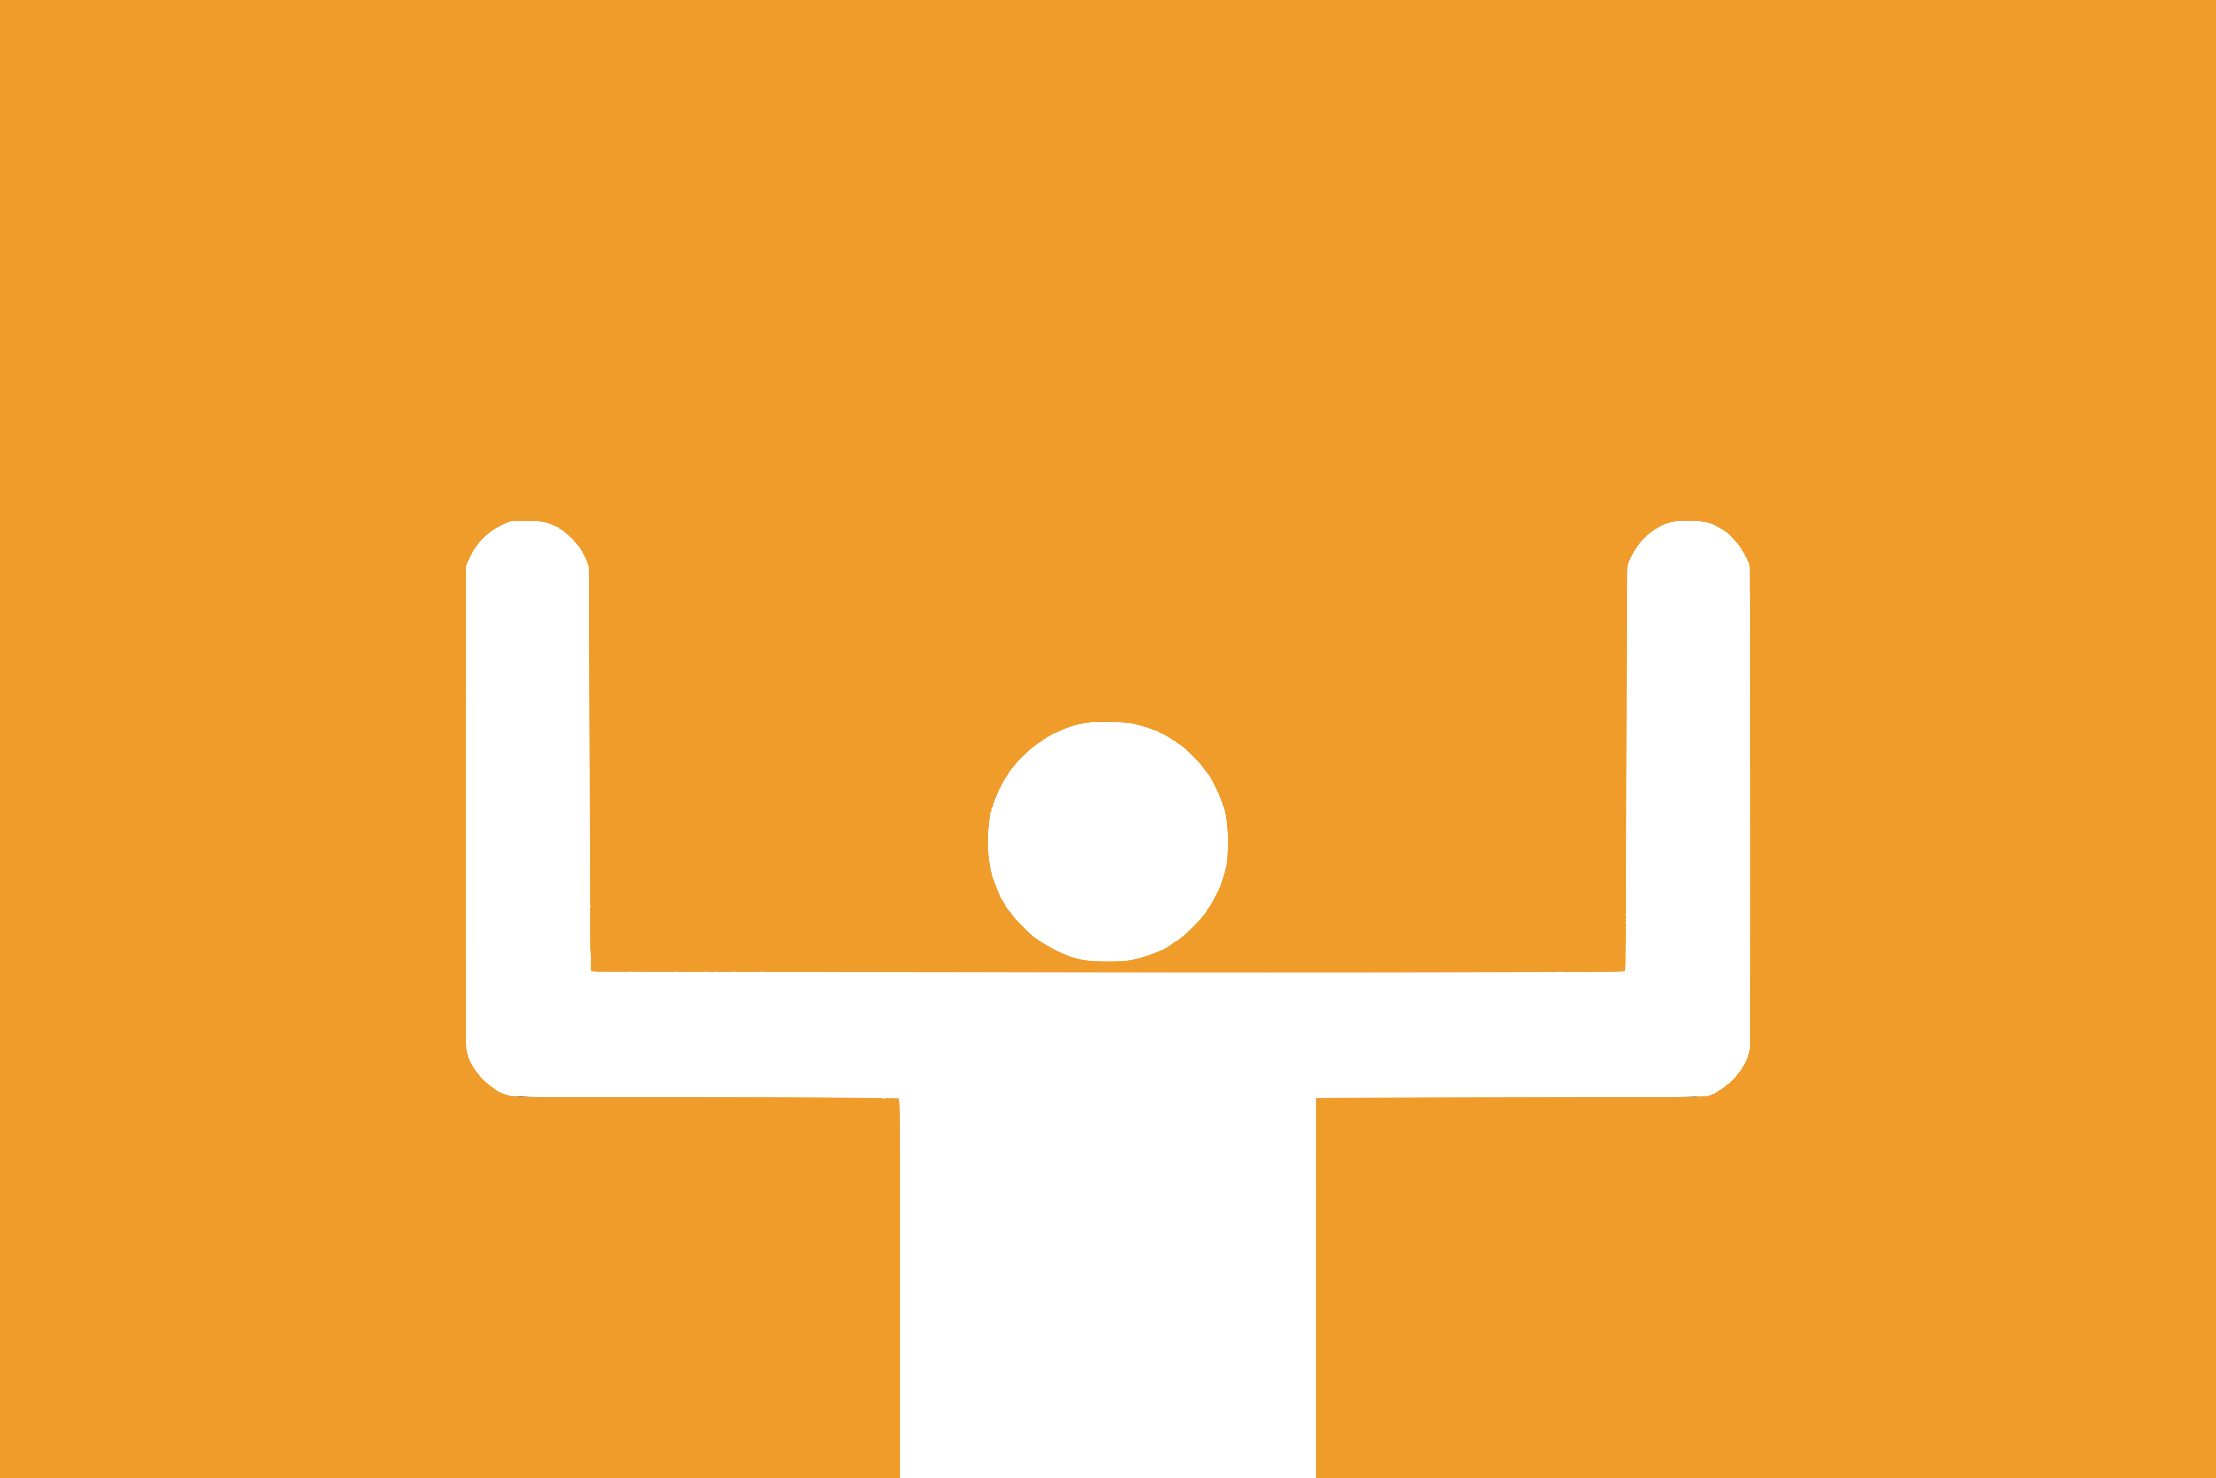
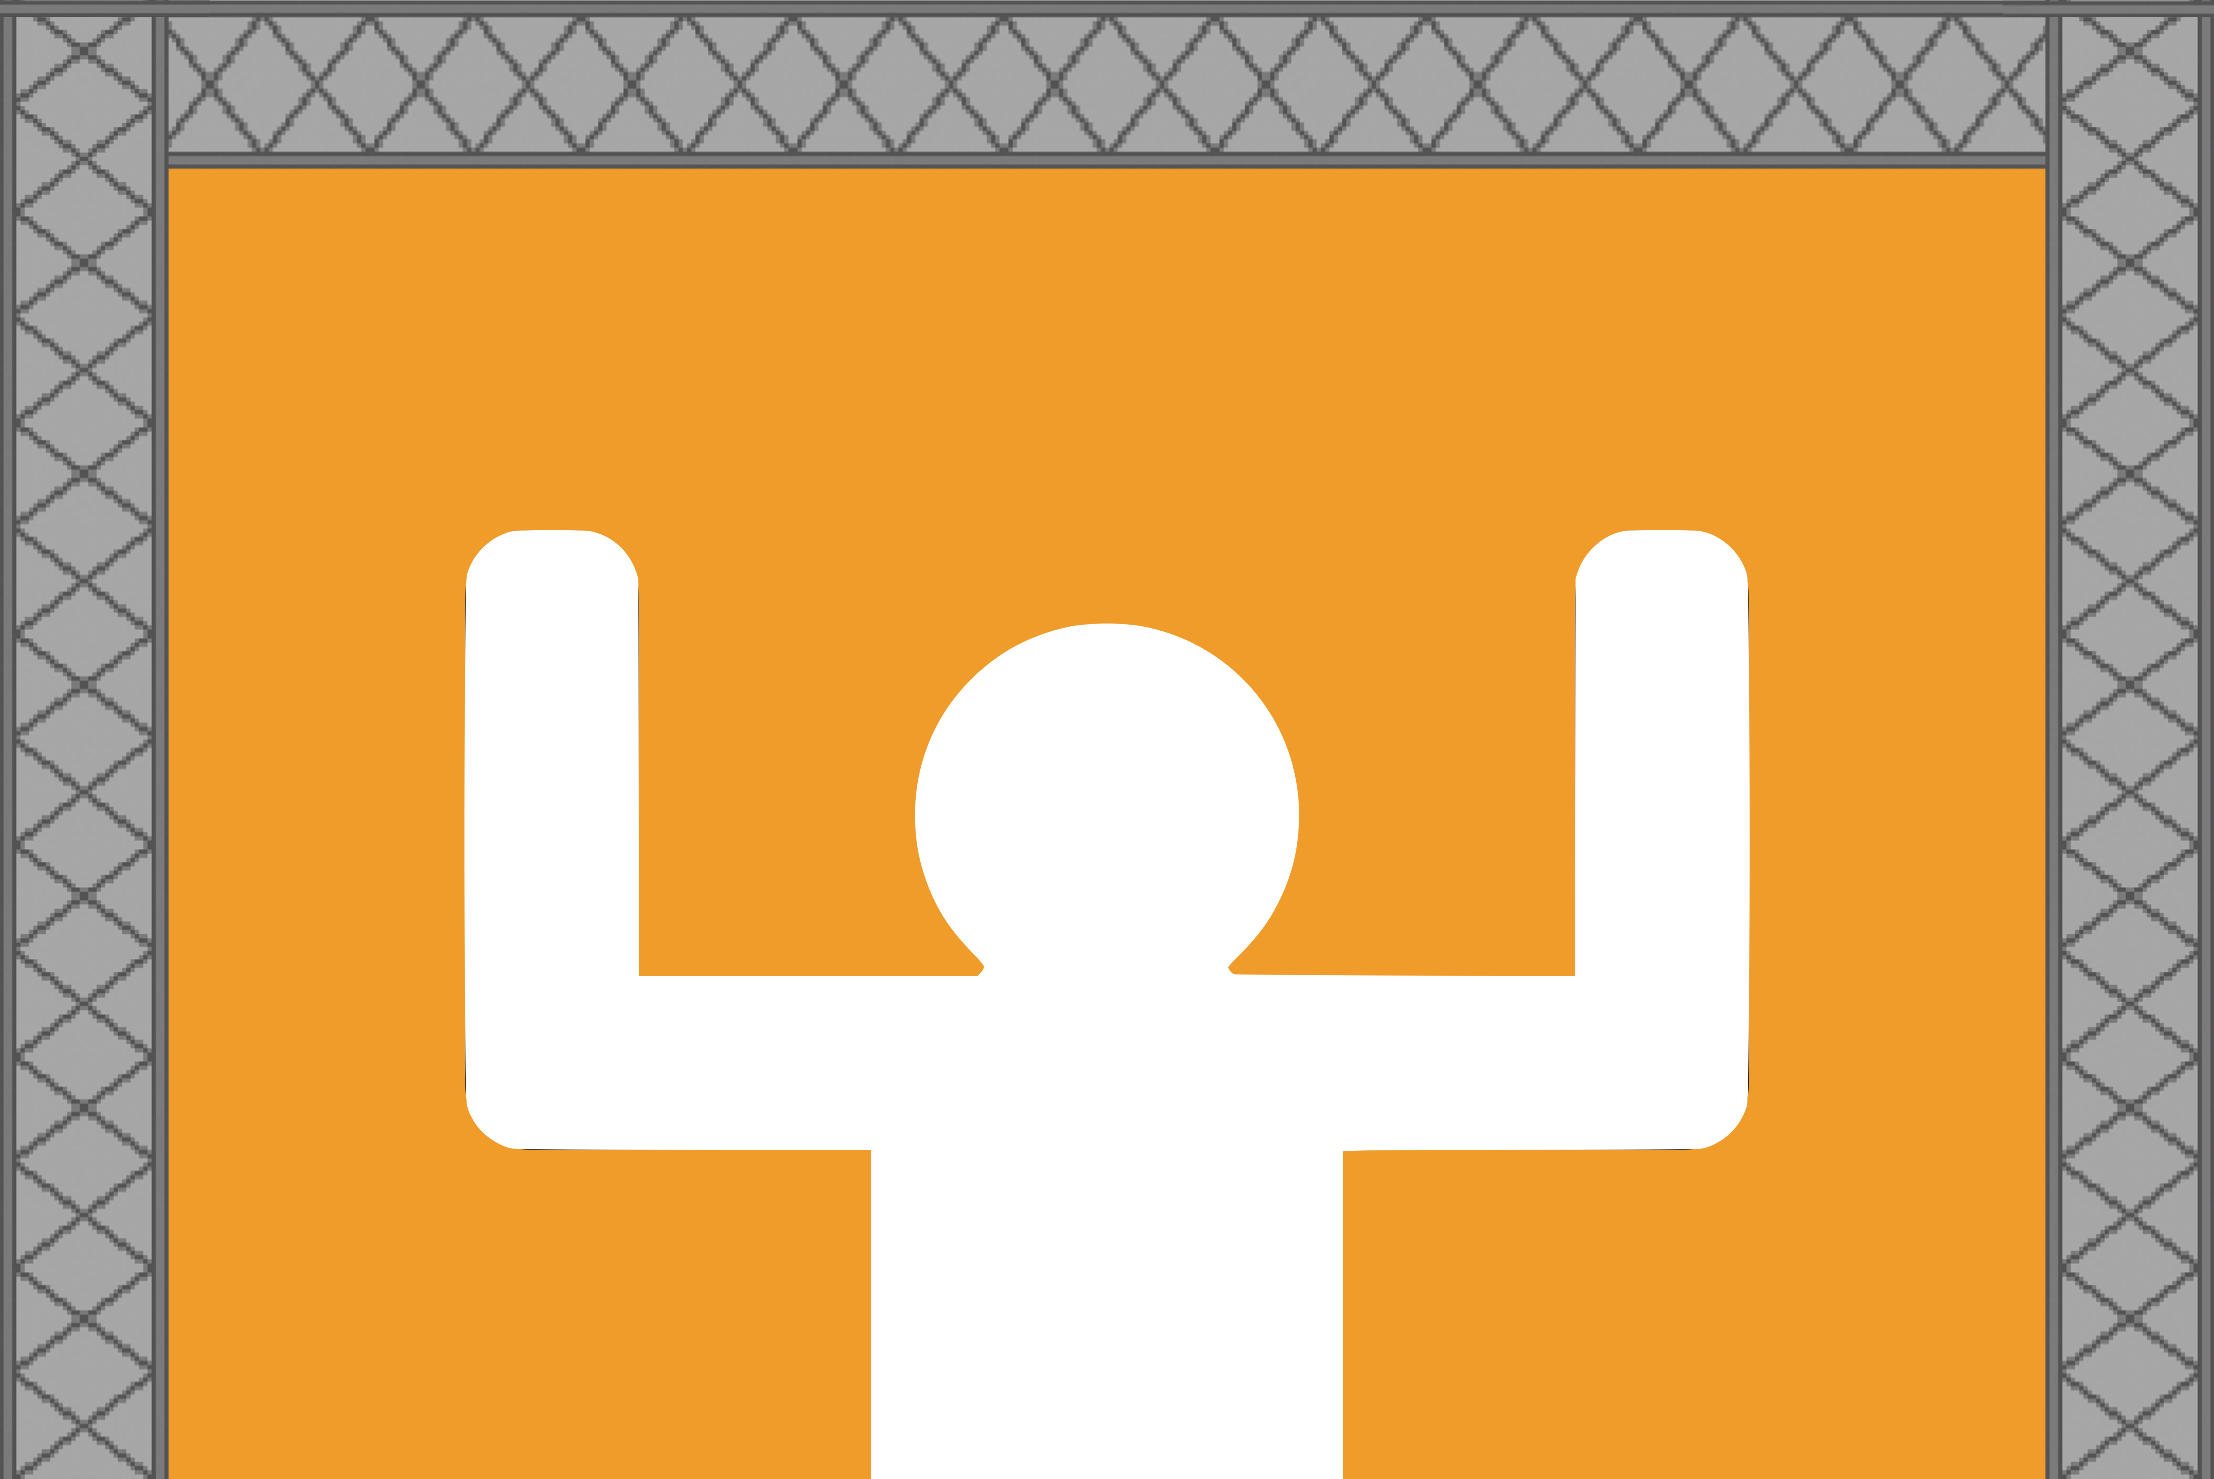
Completed Hole in the Wall

diff --git a/games.py b/games.py
@@ -25,10 +25,10 @@ class HoleInTheWall(Game):
         self.web_cam.startWebcam()
         self.timer = Timer(5, screen)
 
-        self.angles = [[90, 270, 90, 270], [90, 270, 180, 180]]
-        self.walls = [pygame.image.load("assets/img/walls/wall1.png").convert_alpha(), pygame.image.load("assets/img/walls/wall2.png").convert_alpha(), pygame.image.load("assets/img/walls/wall3.png").convert_alpha()]
+        self.angles = [[90, 270, 90, 270], [90, 270, 180, 180], [180, 180, 180, 180], [180, 270, 180, 180], [90, 180, 180, 180]] # Left shoulder, Right shoulder, Left elbow, Right elbow
+        self.walls = [pygame.image.load("assets/img/walls/wall1.png").convert_alpha(), pygame.image.load("assets/img/walls/wall2.png").convert_alpha(), pygame.image.load("assets/img/walls/wall3.png").convert_alpha(), pygame.image.load("assets/img/walls/wall4.png").convert_alpha(), pygame.image.load("assets/img/walls/wall5.png").convert_alpha()]
         self.background = pygame.transform.scale(pygame.image.load("assets/img/walls/background.png"), (self.screen.get_width(), self.screen.get_height()))
-        self.wall = random.randint(0, 1)   
+        self.wall = random.randint(0, 4)   
         self.wall_scale = 0.3
 
         self.shoulders_locked = False
@@ -39,6 +39,7 @@ class HoleInTheWall(Game):
         self.entry_text = AnimatedText("Dodge!", self.screen.get_width() // 2, self.screen.get_height() // 2, self.screen, 72, (0, 0, 0), (255, 255, 255), 3, 0.5)
         self.game_over_symbol = GameFinishSymbol(self.screen)
 
+        self.head = pygame.transform.scale(pygame.image.load("assets/img/body/head.png").convert_alpha(), (200, 200))
         self.back = pygame.transform.scale(pygame.image.load("assets/img/body/back.png").convert_alpha(), (250, 300))
         self.upper_arm = pygame.transform.scale(pygame.image.load("assets/img/body/upperarm.png").convert_alpha(), (200, 200))
         self.lower_arm = pygame.transform.scale(pygame.image.load("assets/img/body/lowerarm.png").convert_alpha(), (200, 200))
@@ -51,7 +52,10 @@ class HoleInTheWall(Game):
         return rotated_image, rect
     
     def find_elbow(self, shoulder_coords, angle, distance):
-        if angle < 180:
+        if angle == 180:
+            return shoulder_coords[0], shoulder_coords[1] - distance
+        
+        if angle <= 180:
             distance = -distance
 
         angle_rad = math.radians(90 - angle)     # (90 - angle) is angle between arm and ground (x-axis).
@@ -95,9 +99,6 @@ class HoleInTheWall(Game):
         # Create body
         body_coords = (self.screen.get_width() // 2 - self.back.get_width() // 2, self.screen.get_height() // 1.5) 
 
-        # Draw head
-        pygame.draw.circle(self.screen, (0, 0, 0), (self.screen.get_width() // 2, self.screen.get_height() // 1.75), 50)
-
         # Draw shoulders
         surface_shoulers = ((body_coords[0] + 40, self.screen.get_height() // 1.5 + 40), (body_coords[0] + self.back.get_width() - 40, self.screen.get_height() // 1.5 + 40))  # 40 -> offset into body
 
@@ -119,6 +120,9 @@ class HoleInTheWall(Game):
 
         # Draw body
         self.screen.blit(self.back, (self.screen.get_width() // 2 - self.back.get_width() // 2, self.screen.get_height() // 1.5))   
+
+        # Draw head
+        self.screen.blit(self.head, (self.screen.get_width() // 2 - self.head.get_width() // 2, self.screen.get_height() // 1.5 - self.head.get_height() + 30))
 
     def draw_upper_arms(self, l_shoulder_angle, r_shoulder_angle, surface_shoulers):
         # Left

diff --git a/menus.py b/menus.py
@@ -203,7 +203,7 @@ class GameRunner(Menu):
         self.speed = 1
         self.games = [HoleInTheWall]
         self.inter_game_menu = InterGameMenu(screen, 4)
-        self.current_game = self.games[0](screen, self.speed)
+        self.current_game = None
         self.current_game_won = None
 
     def draw(self):
